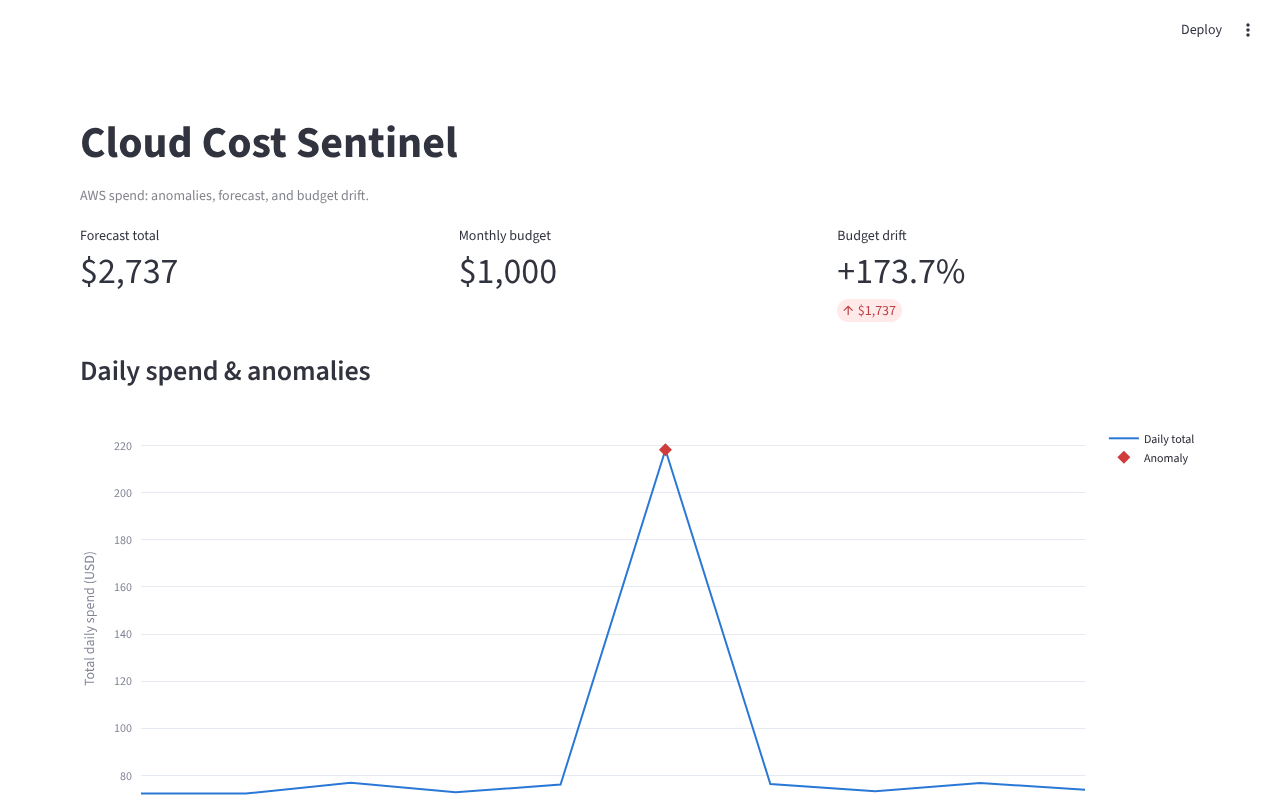
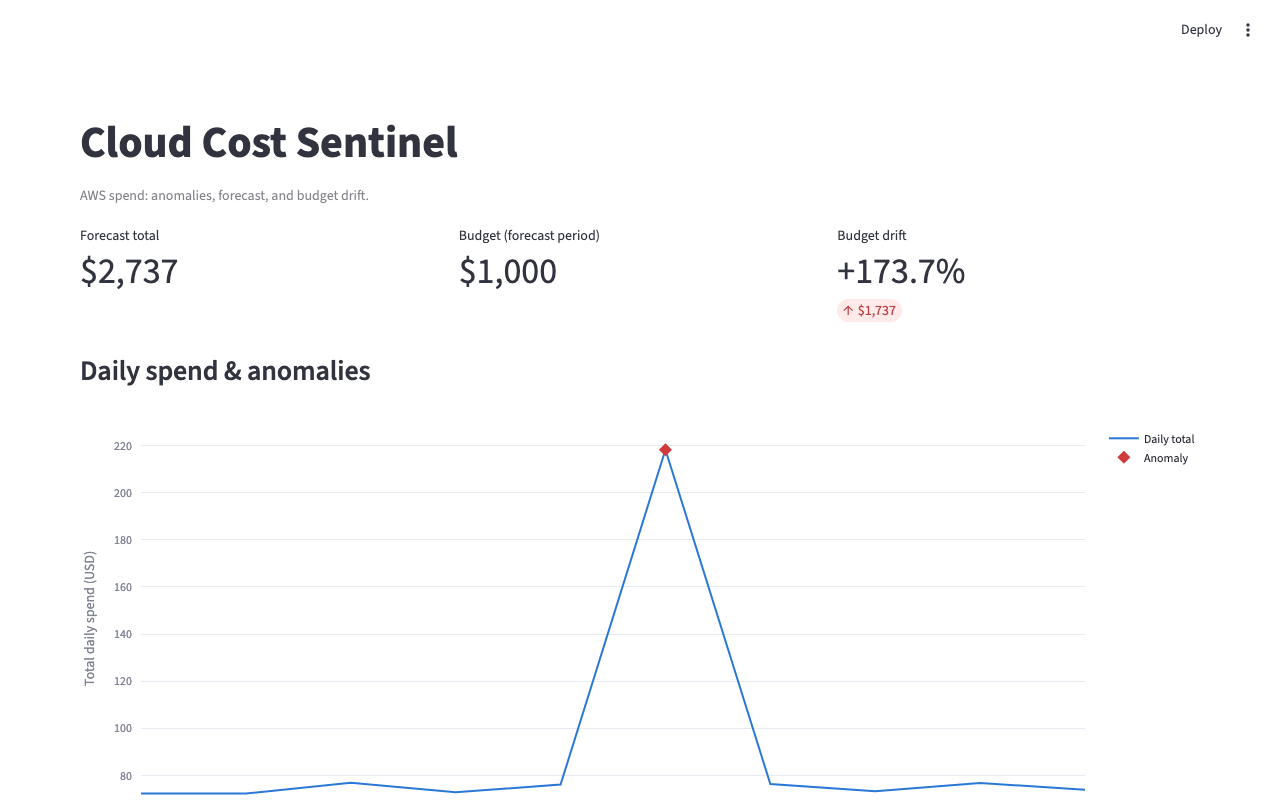
Fix #4: prorate budget to the forecast horizon for drift calculation
calculate_budget_drift() compared a forecast's full-horizon total
directly against the flat monthly_budget_usd, so any horizon other
than 30 days (e.g. CCS_FORECAST_HORIZON_DAYS=90) overstated drift. The
monthly budget is now scaled by forecast_horizon_days / 30 before
comparison, and docs/the dashboard label reflect that the forecast
period is a rolling window, not a calendar month.

diff --git a/src/cloud_cost_sentinel/forecasting/prophet_forecast.py b/src/cloud_cost_sentinel/forecasting/prophet_forecast.py
@@ -20,6 +20,11 @@ MIN_HISTORY_DAYS = 14
 to act on, so :func:`forecast_daily_costs` refuses instead of returning a
 misleading number."""
 
+DAYS_PER_MONTH = 30
+"""``Settings.monthly_budget_usd`` is a flat per-30-day figure; a forecast
+horizon of any other length is prorated against it as a multiple of this
+constant (see :func:`calculate_budget_drift`)."""
+
 
 def daily_total_costs(df: pd.DataFrame) -> pd.DataFrame:
     """Aggregate raw cost records into one total-cost row per calendar day.
@@ -93,11 +98,24 @@ def calculate_budget_drift(
     *,
     settings: Settings | None = None,
 ) -> BudgetDrift:
-    """Compare a forecast's total spend against ``Settings.monthly_budget_usd``."""
+    """Compare a forecast's total spend against ``Settings.monthly_budget_usd``,
+    prorated to the forecast horizon.
+
+    ``monthly_budget_usd`` is a flat per-30-day figure, but the forecast
+    itself is a rolling window of ``Settings.forecast_horizon_days`` days
+    from the last historical day, not a calendar month. Comparing the
+    horizon's full total directly against the monthly figure overstates
+    drift for any horizon longer than 30 days (and understates it for any
+    horizon shorter than 30 days), so the budget is scaled by
+    ``forecast_horizon_days / DAYS_PER_MONTH`` before comparison.
+    """
     if not forecast:
         raise ValueError("Cannot calculate budget drift from an empty forecast.")
 
-    budget = (settings or get_settings()).monthly_budget_usd
+    resolved_settings = settings or get_settings()
+    budget = resolved_settings.monthly_budget_usd * (
+        resolved_settings.forecast_horizon_days / DAYS_PER_MONTH
+    )
     total = sum(point.forecast_cost for point in forecast)
     drift = total - budget
 

diff --git a/src/cloud_cost_sentinel/dashboard/app.py b/src/cloud_cost_sentinel/dashboard/app.py
@@ -150,7 +150,7 @@ def render() -> None:
 
     col1, col2, col3 = st.columns(3)
     col1.metric("Forecast total", f"${drift.forecast_total_usd:,.0f}")
-    col2.metric("Monthly budget", f"${drift.budget_usd:,.0f}")
+    col2.metric("Budget (forecast period)", f"${drift.budget_usd:,.0f}")
     col3.metric(
         "Budget drift",
         f"{drift.drift_pct:+.1f}%",

diff --git a/README.md b/README.md
@@ -153,10 +153,21 @@ forecast_df = load_cost_dataframe("data/sample/sample_cur_forecast.csv")
 # beyond the input history's last day (defaults to Settings.forecast_horizon_days).
 forecast = forecast_daily_costs(forecast_df, periods=30)
 
-# Compares the forecast's total against Settings.monthly_budget_usd.
+# Compares the forecast's total against Settings.monthly_budget_usd,
+# prorated to the forecast's horizon (see below).
 drift = calculate_budget_drift(forecast)
 print(drift.over_budget, drift.drift_usd, drift.drift_pct)
 ```
+
+The forecast period is a rolling window of `Settings.forecast_horizon_days`
+days starting right after the input history's last day — not a calendar
+month. `Settings.monthly_budget_usd` is a flat per-30-day figure, so
+`calculate_budget_drift` scales it by `forecast_horizon_days / 30` before
+comparing it against the horizon's total: a 90-day forecast is checked
+against 3x the monthly budget, a 15-day forecast against half of it, and
+the default 30-day horizon against the monthly figure unchanged.
+`drift.budget_usd` reports this scaled figure (the budget for the forecast
+period being reported), not the raw monthly setting.
 
 `forecast_daily_costs` fits a fresh Prophet model on total daily spend
 (`ds`/`y` shaped, summed across services) and requires at least 14 days of
